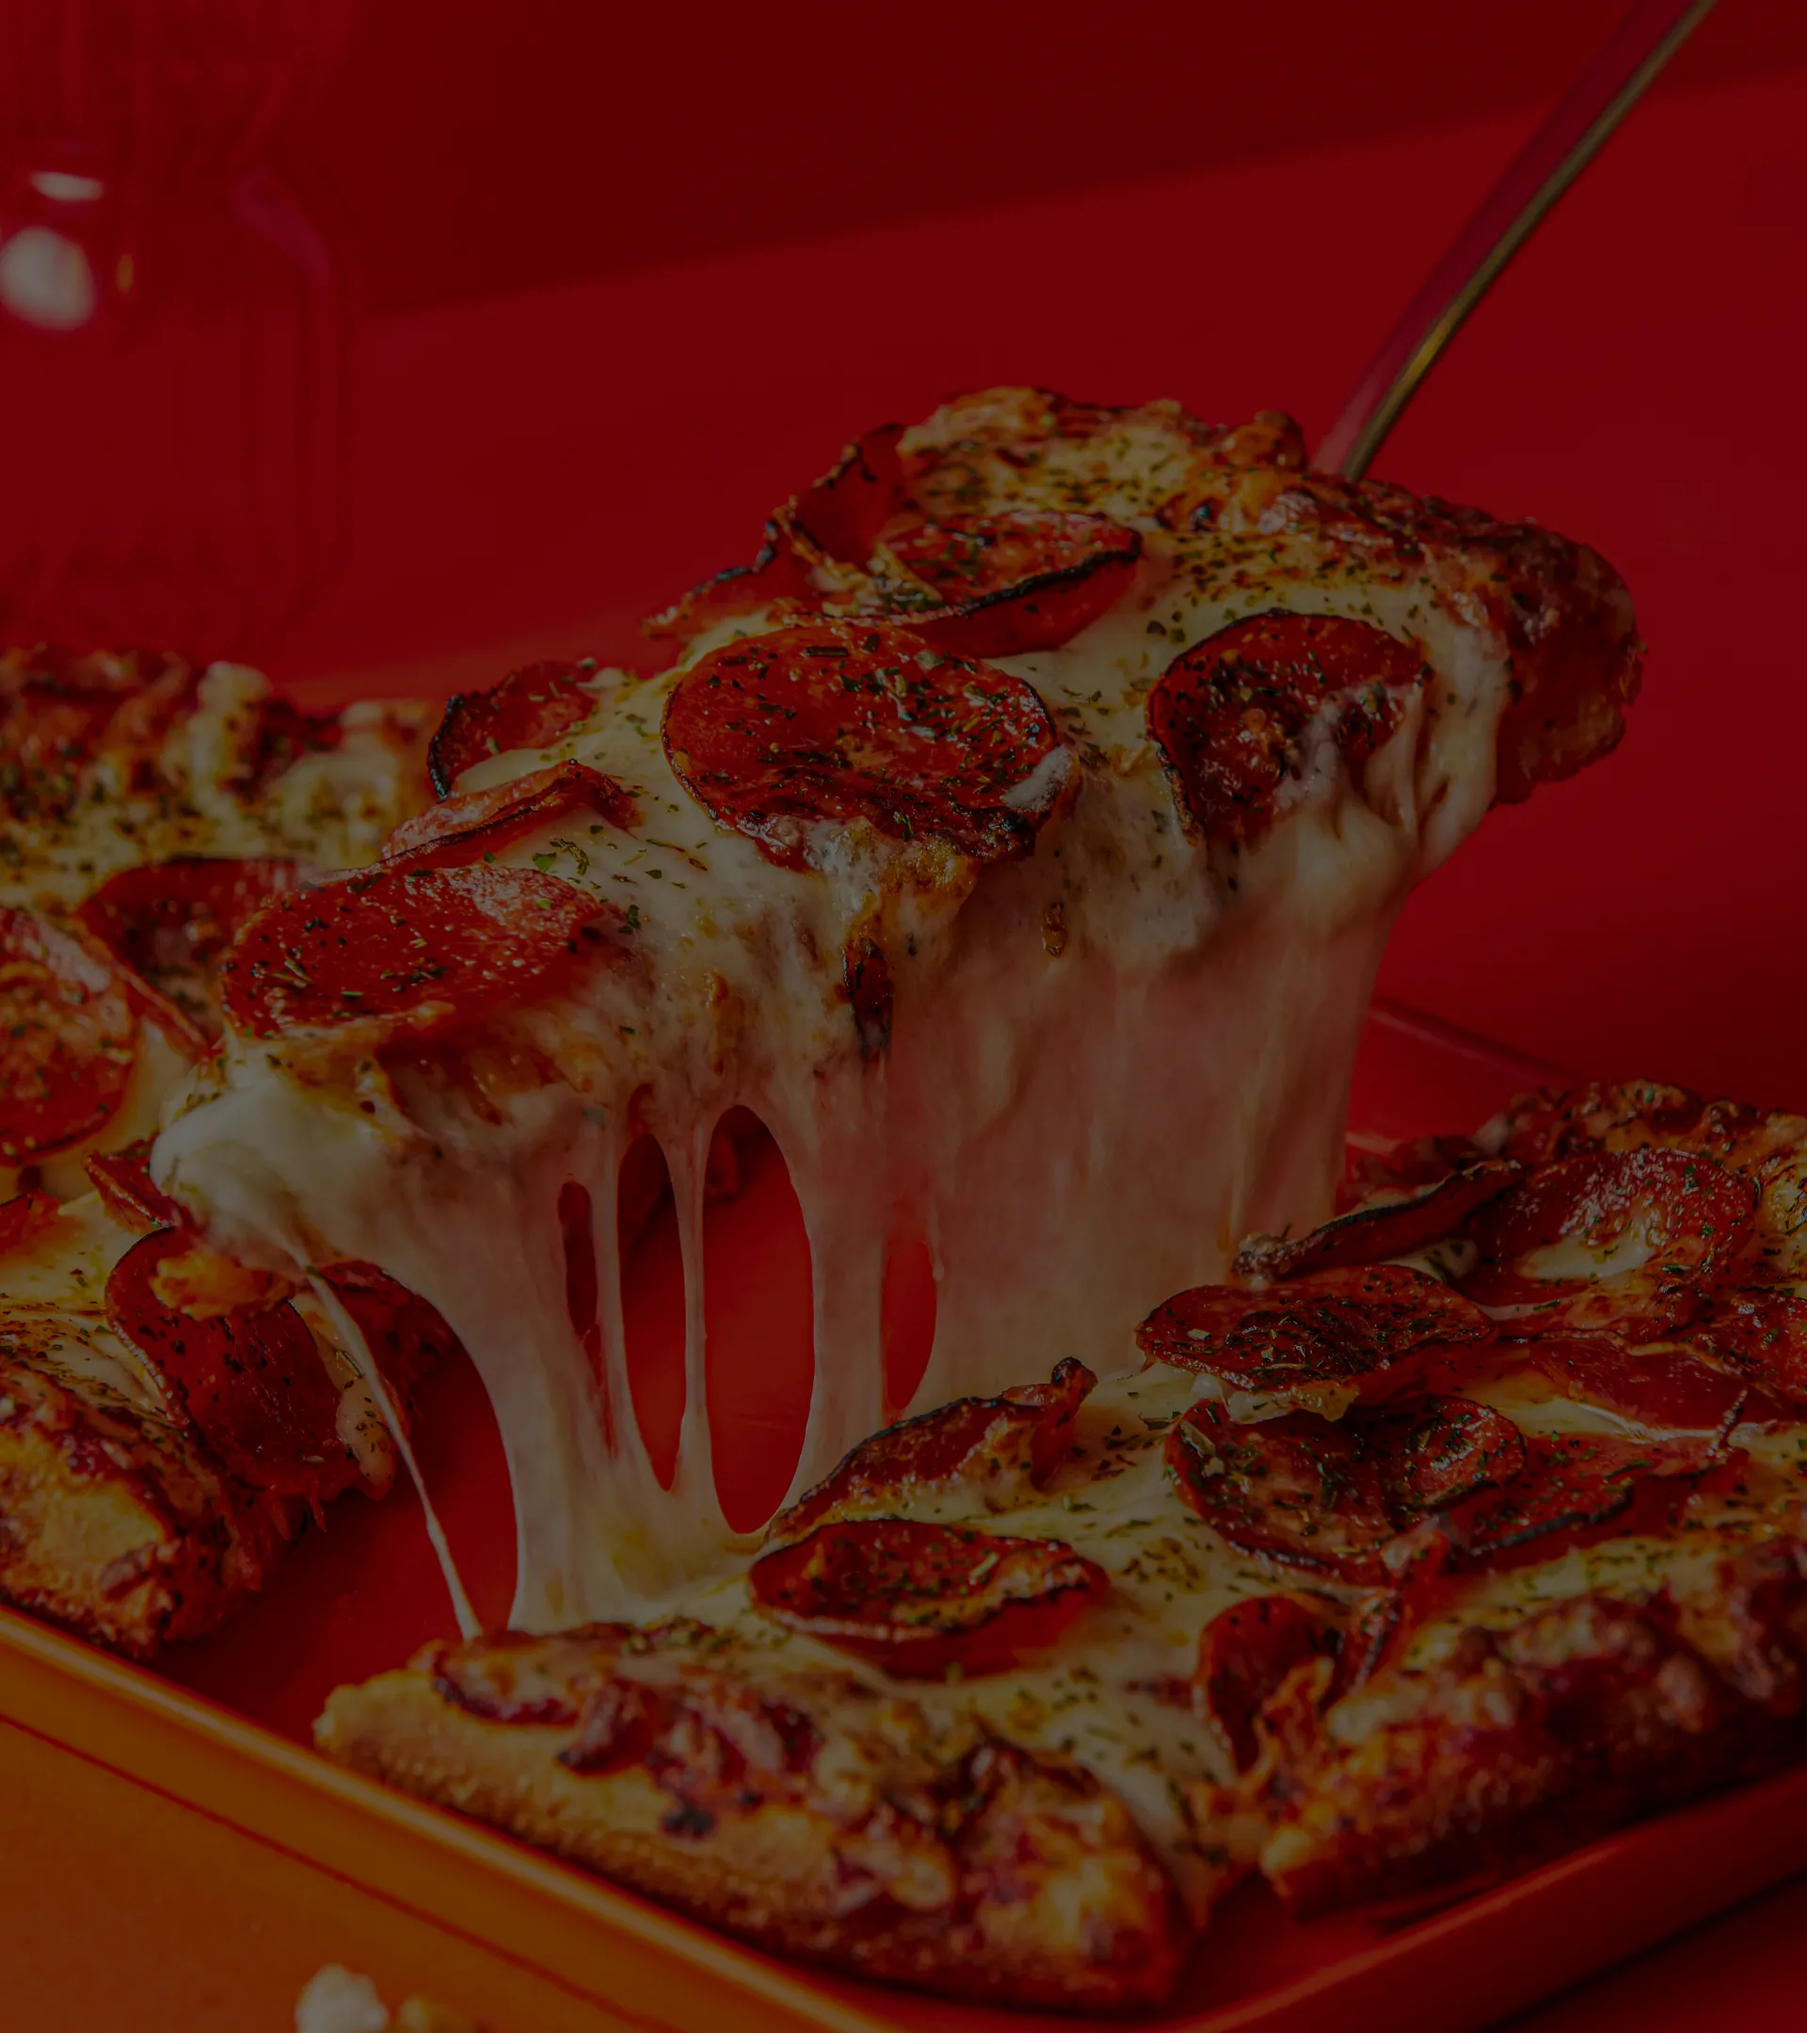
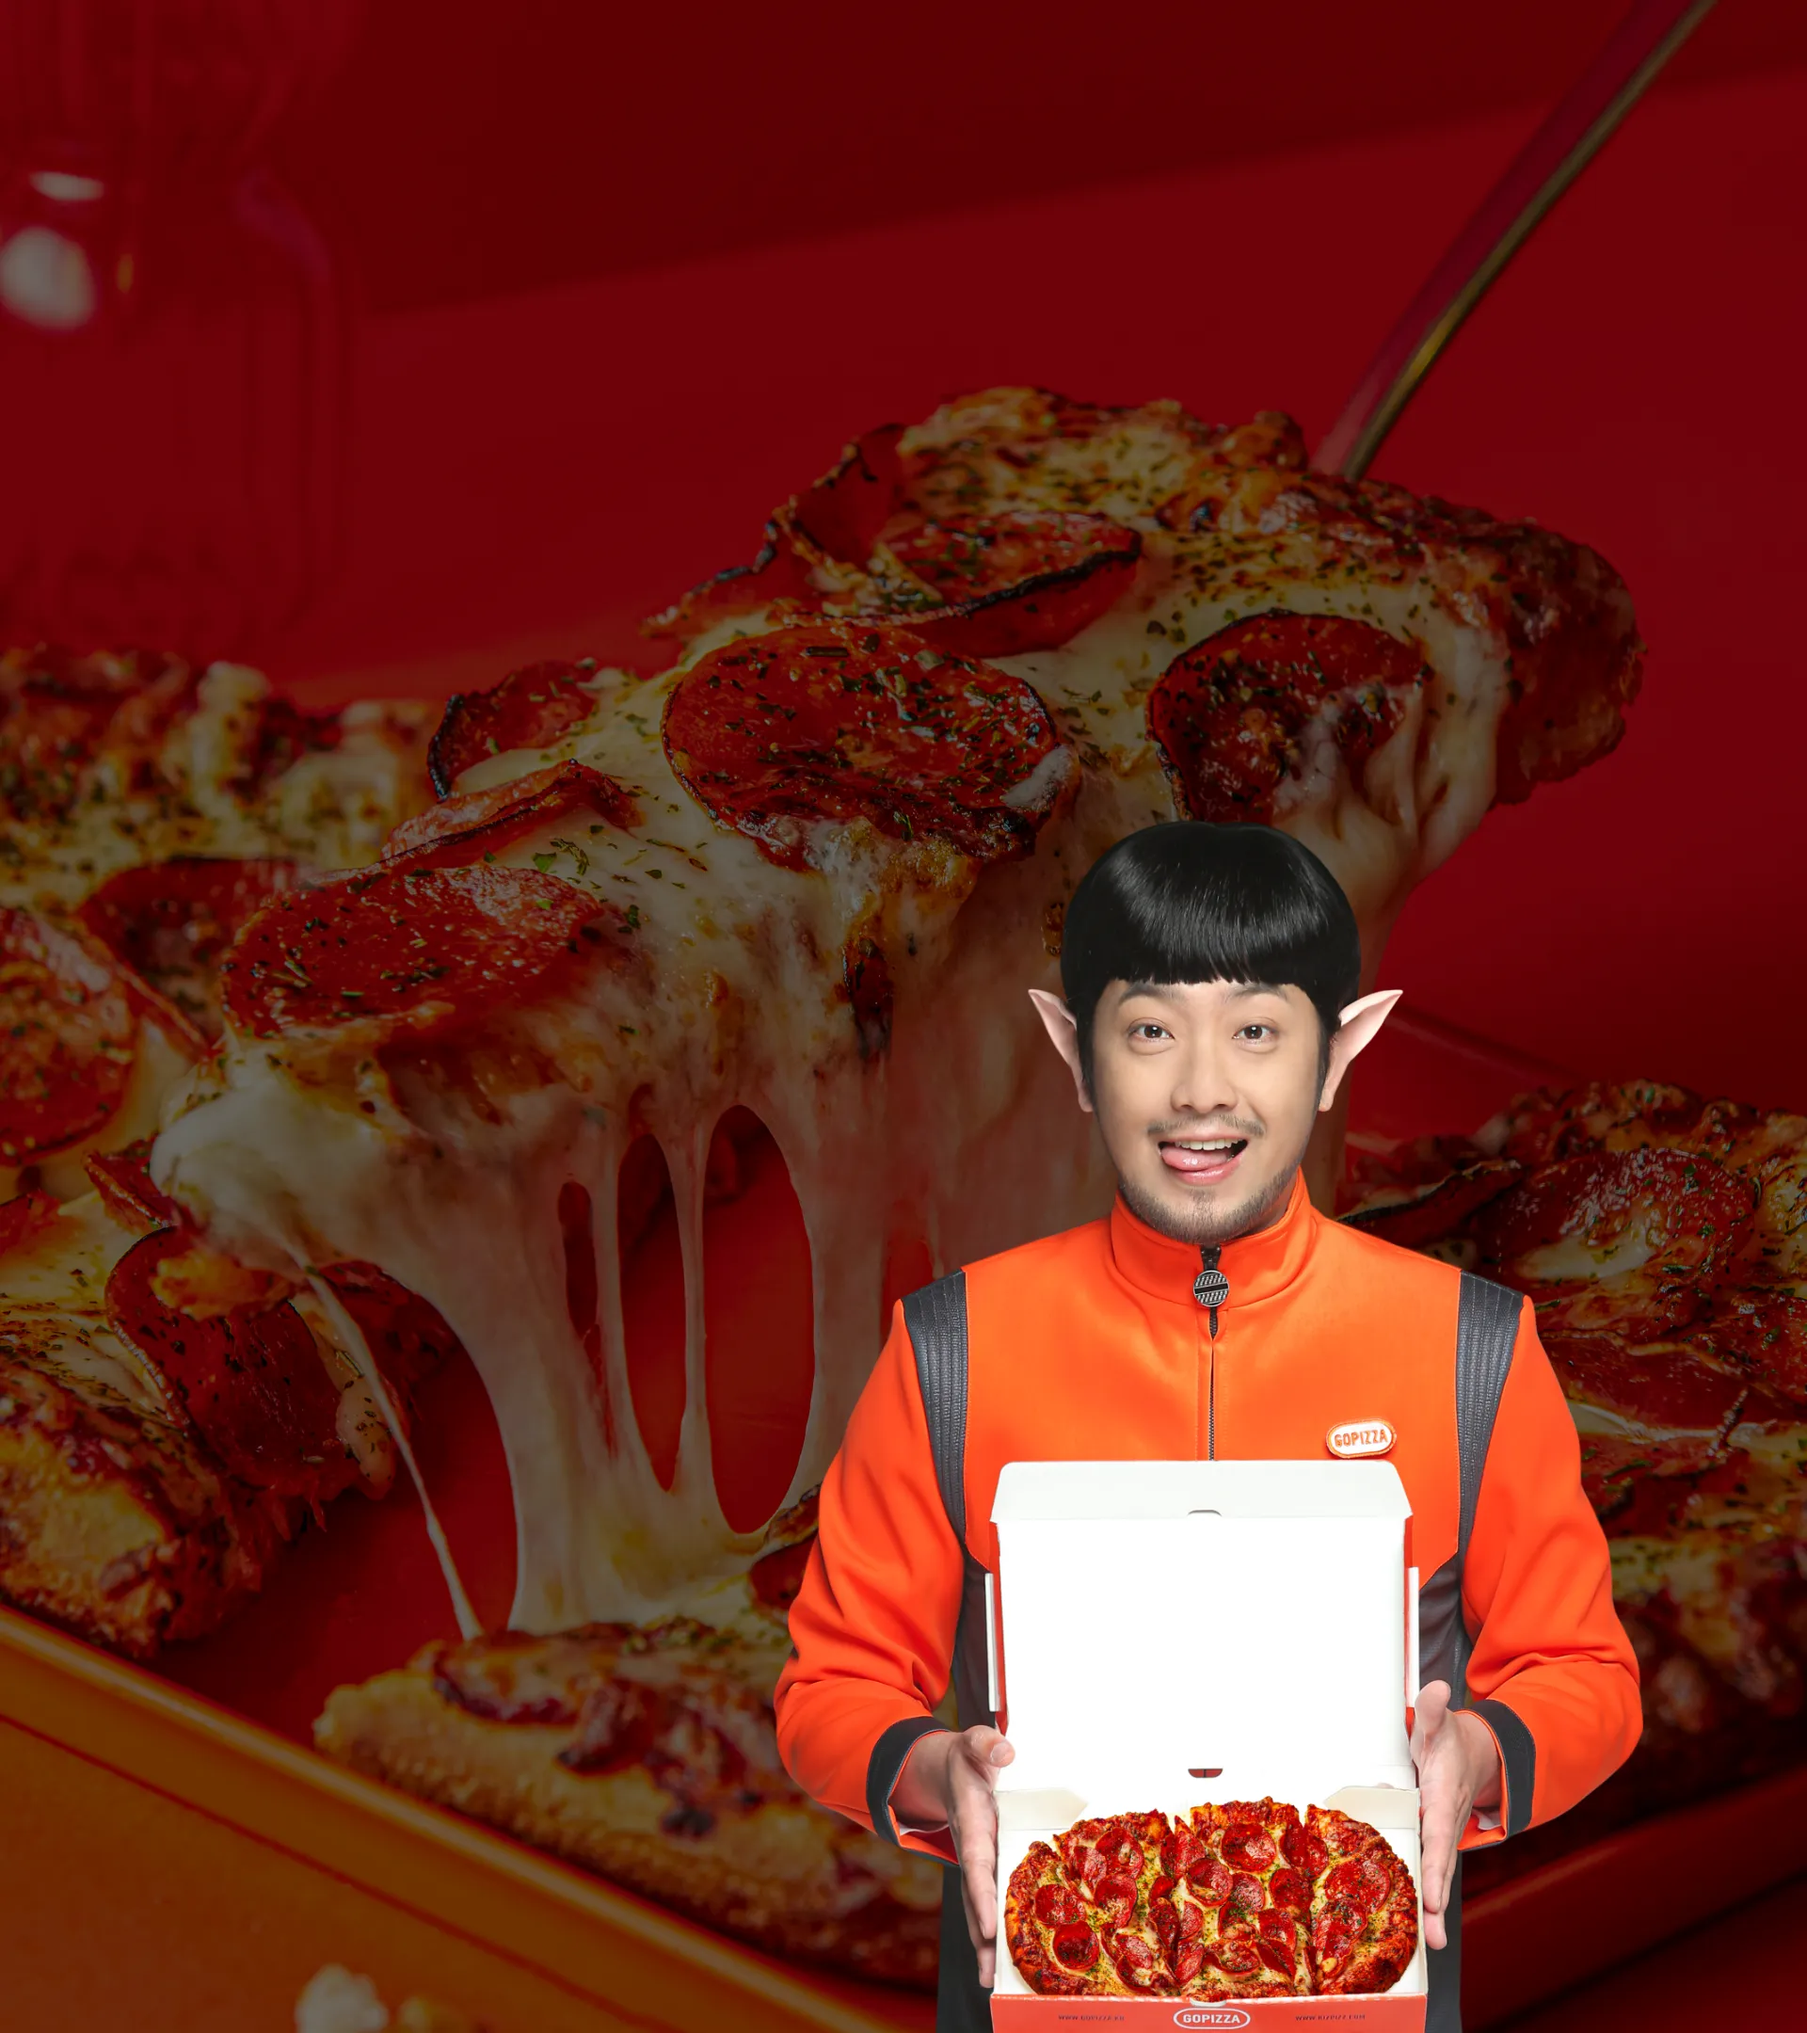
모델 교치

Changed region(s): [[0.4062, 0.4032, 0.9062, 1.0]]

diff --git a/components/pageComp/index/style.ts b/components/pageComp/index/style.ts
@@ -21,13 +21,13 @@ export const IndexWrap = styled.main`
     padding: 13rem 0 0 12rem;
 
     &:nth-of-type(1) {
-      background: url("https://dev-gopizza-homepage.s3.ap-northeast-2.amazonaws.com/ui/images/index/bg_main1x2.webp?v=3") no-repeat center bottom / cover;
+      background: url("https://dev-gopizza-homepage.s3.ap-northeast-2.amazonaws.com/ui/images/index/bg_main1newx2.webp?v=3") no-repeat center bottom / cover;
       a .txt {
         padding-right: 5.7rem;
       }
     }
     &:nth-of-type(2) {
-      background: url("https://dev-gopizza-homepage.s3.ap-northeast-2.amazonaws.com/ui/images/index/bg_main2x2.webp?v=3") no-repeat center bottom / cover;
+      background: url("https://dev-gopizza-homepage.s3.ap-northeast-2.amazonaws.com/ui/images/index/bg_main2newx2.webp?v=3") no-repeat center bottom / cover;
       a .txt {
         padding-right: 4.5rem;
       }
